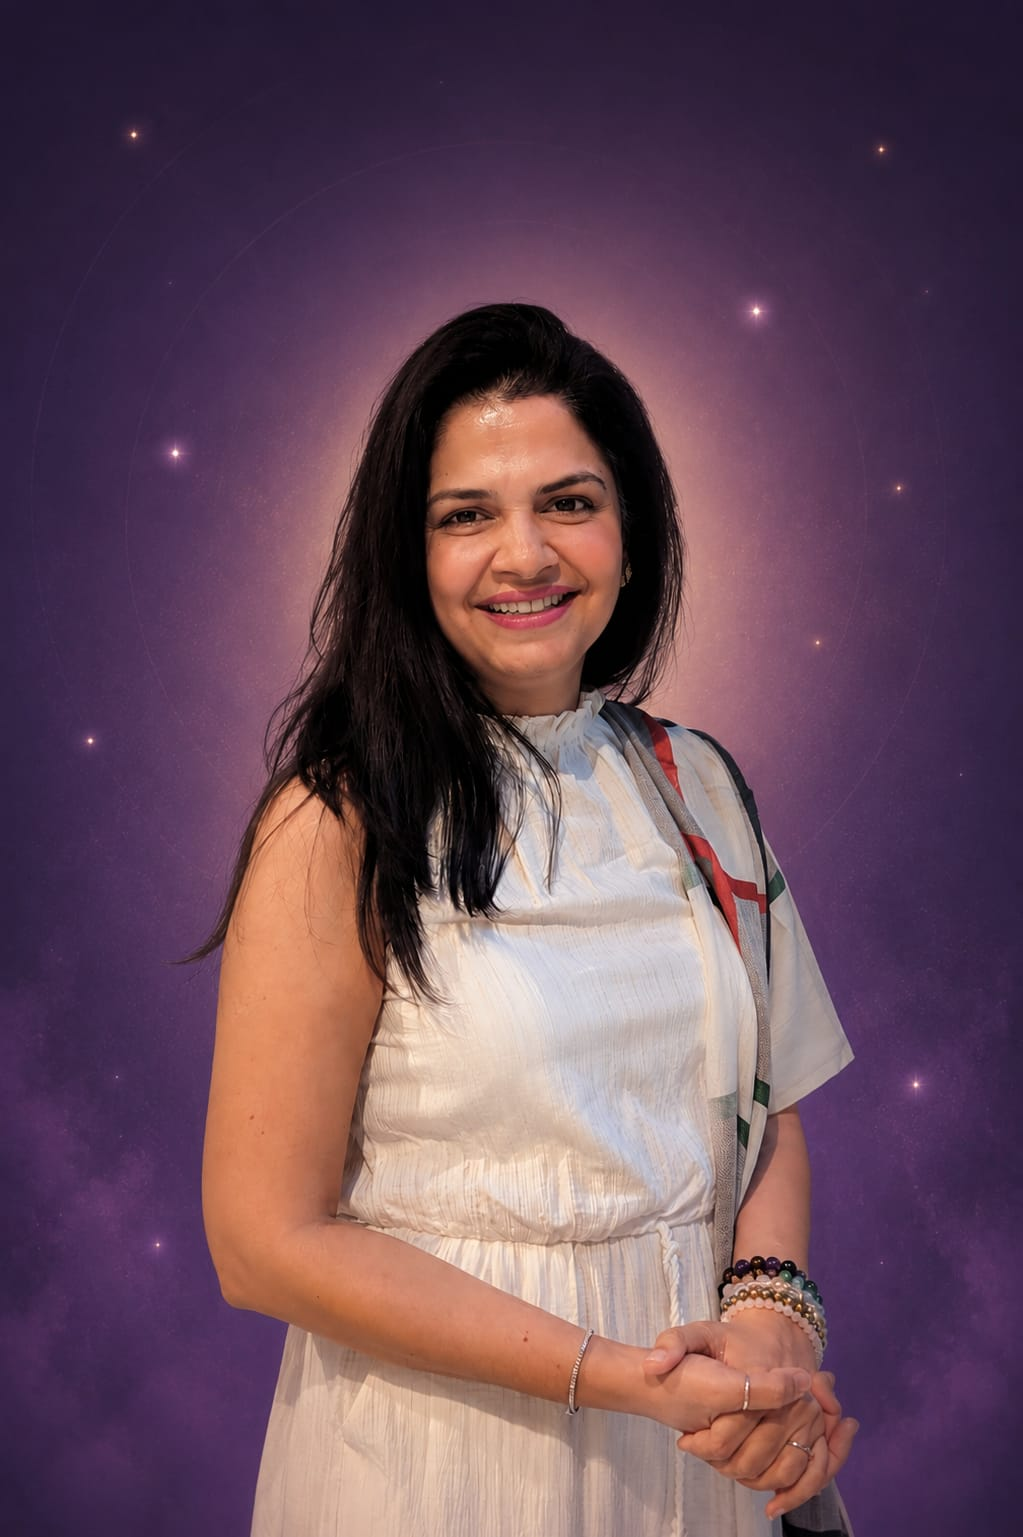
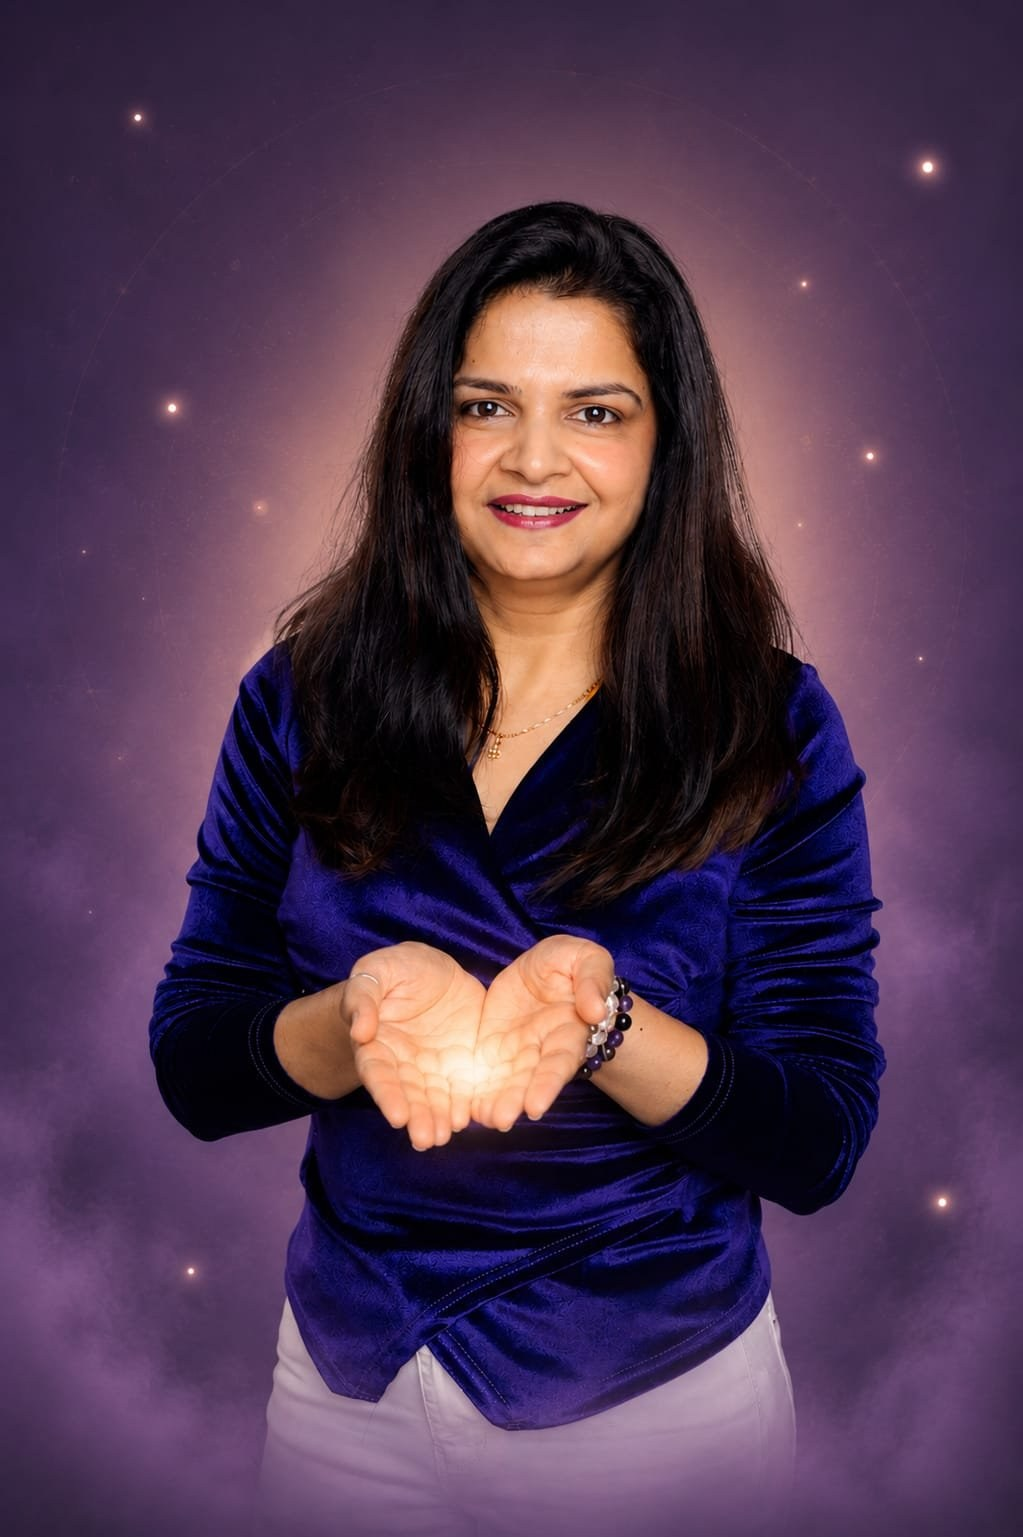
Larger readable text, update step 4, new portrait

diff --git a/css/styles.css b/css/styles.css
@@ -126,7 +126,7 @@ h1,h2,h3,h4{ font-family:var(--serif); color:var(--ink); font-weight:500; line-h
 .brand:hover .brand-mark svg, .brand:hover .brand-mark img{ transform:rotate(120deg); }
 .brand-text{ display:flex; flex-direction:column; line-height:1; }
 .brand-name{ font-family:var(--serif); font-weight:600; font-size:1.32rem; letter-spacing:.22em; color:var(--ink); text-transform:uppercase; }
-.brand-tag{ font-family:var(--sans); font-size:.56rem; letter-spacing:.3em; text-transform:uppercase; color:var(--gold-deep); margin-top:.25rem; }
+.brand-tag{ font-family:var(--sans); font-size:.72rem; letter-spacing:.2em; text-transform:uppercase; color:var(--gold-deep); margin-top:.25rem; }
 
 .main-nav{ display:flex; gap:1.7rem; margin-left:auto; }
 .main-nav a{
@@ -210,7 +210,7 @@ h1,h2,h3,h4{ font-family:var(--serif); color:var(--ink); font-weight:500; line-h
 .services .eyebrow,.how .eyebrow{ display:flex; gap:.7rem; align-items:center; justify-content:center; }
 .services .section-title{ margin-bottom:.8rem; }
 .section-intro{ text-align:center; max-width:60ch; margin:0 auto 2.6rem; color:var(--ink-soft); font-size:1rem; }
-.badge{ display:inline-block; font-family:var(--sans); font-size:.7rem; letter-spacing:.12em; text-transform:uppercase;
+.badge{ display:inline-block; font-family:var(--sans); font-size:.8rem; letter-spacing:.12em; text-transform:uppercase;
   color:var(--gold-deep); background:rgba(184,146,79,.12); border:1px solid rgba(184,146,79,.3);
   border-radius:20px; padding:.25rem .8rem; margin-bottom:.7rem; }
 .addon-head{ text-align:center; font-size:1.5rem; color:var(--ink); margin:3rem 0 1.6rem;
@@ -229,9 +229,9 @@ h1,h2,h3,h4{ font-family:var(--serif); color:var(--ink); font-weight:500; line-h
   background:radial-gradient(circle at 35% 30%,#f3e6d6,#ece0ec); color:var(--gold-deep); }
 .card-ico svg{ width:40px; height:48px; }
 .card h3{ font-size:1.4rem; margin-bottom:.5rem; }
-.card p{ font-size:.9rem; min-height:3.4em; }
-.card .price{ font-family:var(--serif); color:var(--gold-deep); font-size:1.35rem; margin:.9rem 0 1.1rem; min-height:auto; }
-.card .price span{ font-family:var(--sans); font-size:.78rem; color:var(--muted); }
+.card p{ font-size:1rem; min-height:3.6em; line-height:1.65; }
+.card .price{ font-family:var(--serif); color:var(--gold-deep); font-size:1.55rem; margin:.9rem 0 1.1rem; min-height:auto; }
+.card .price span{ font-family:var(--sans); font-size:.92rem; color:var(--muted); }
 .card.featured{ border-color:rgba(184,146,79,.55); background:linear-gradient(180deg,#fdf6ea,var(--card)); }
 .ribbon{ position:absolute; top:-11px; left:50%; transform:translateX(-50%); background:var(--gold);
   color:#3a2a18; font-size:.66rem; letter-spacing:.18em; text-transform:uppercase; padding:.3rem .9rem; border-radius:20px; }

diff --git a/index.html b/index.html
@@ -269,7 +269,7 @@
           <span class="step-no">4</span>
           <span class="step-ico" aria-hidden="true"><svg viewBox="0 0 40 40"><rect x="8" y="11" width="24" height="18" rx="3" fill="none" stroke="currentColor" stroke-width="1.5"/><path d="M8 13l12 9 12-9" fill="none" stroke="currentColor" stroke-width="1.5"/><path d="M20 6l.8 1.7 1.7.8-1.7.8-.8 1.7-.8-1.7-1.7-.8 1.7-.8z" fill="currentColor"/></svg></span>
           <h4>Receive Your Guidance</h4>
-          <p>You'll receive your reading or report with care and clarity.</p>
+          <p>You'll receive an email with instructions for your booked slot &mdash; come with a relaxed mind.</p>
         </li>
       </ol>
     </div>
